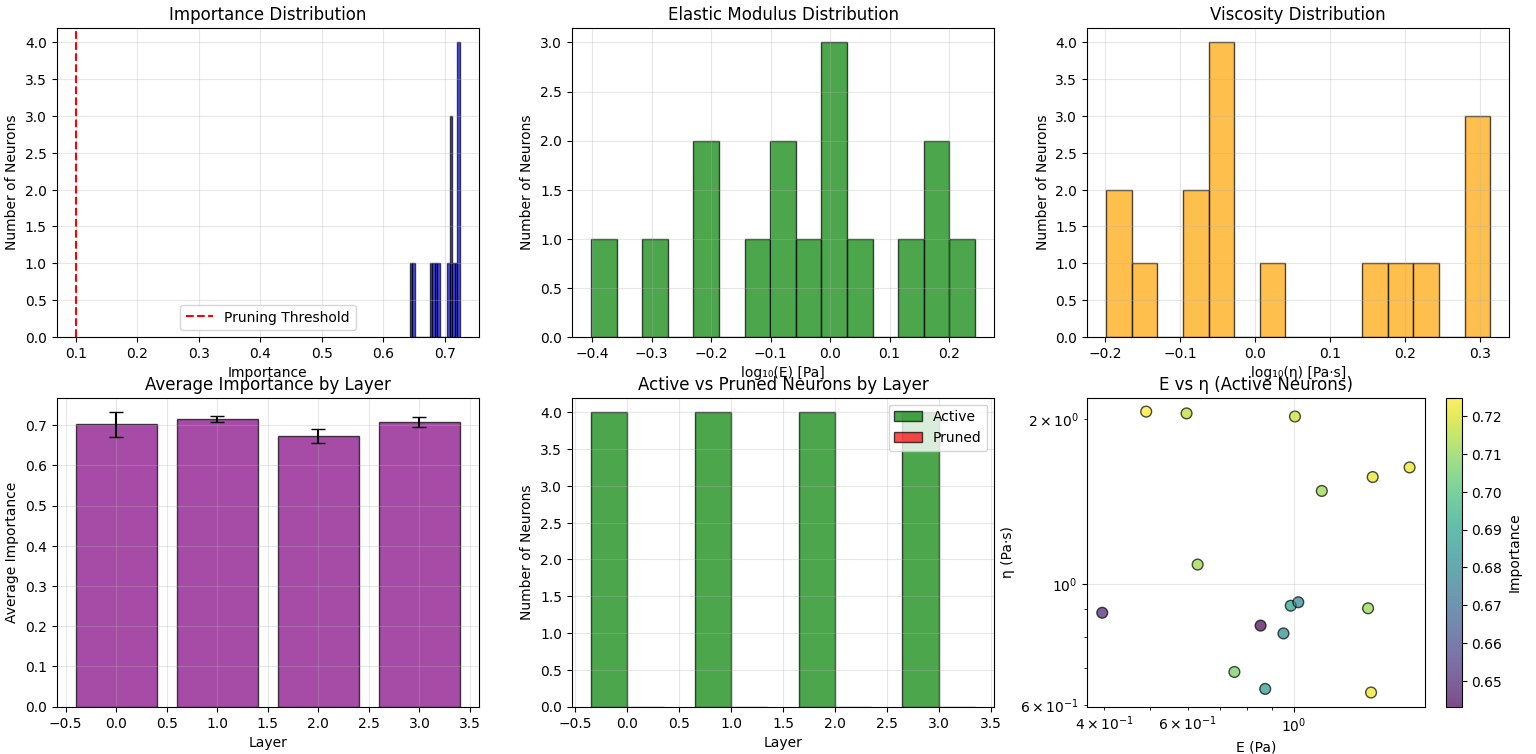
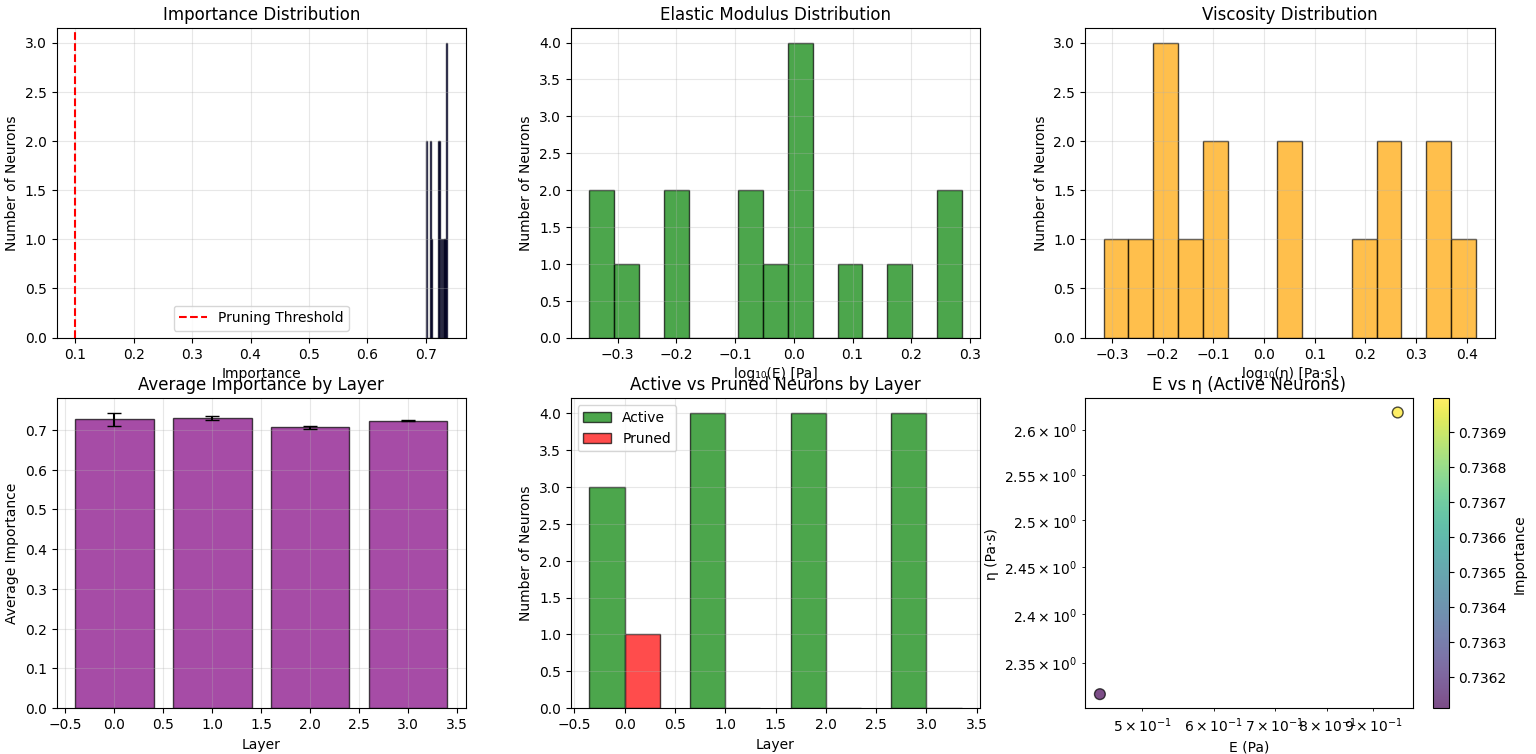
updated code

diff --git a/experiments/maxwell/main2.py b/experiments/maxwell/main2.py
@@ -243,68 +243,105 @@ class MultiPINNNetwork(nn.Module):
                 all_params.append(params)
         return all_params
     
-    def prune_neurons(self, importance_threshold=0.7):
-        """Prune neurons with low importance"""
-        pruned_count = 0
-        active_neurons = []
+    def aggressive_prune_neurons(self, target_neurons=2):
+        """Aggressively prune to keep only the most important neurons"""
+        all_params = self.get_all_neuron_parameters()
         
-        print(f"\n{'Layer':<8} {'Neuron':<8} {'ID':<5} {'Importance':<12} {'E':<12} {'η':<12} {'τ':<12} {'Status':<10}")
-        print("-" * 85)
+        # Sort by importance
+        sorted_params = sorted(all_params, key=lambda x: x['importance'], reverse=True)
         
-        for layer_idx, layer in enumerate(self.layers):
-            for neuron_idx, neuron in enumerate(layer):
-                params = neuron.get_physics_parameters()
-                importance = params['importance']
-                
-                status = "ACTIVE" if importance > importance_threshold else "PRUNED"
-                if importance <= importance_threshold:
-                    # Set importance to zero (soft pruning)
-                    with torch.no_grad():
-                        neuron.importance.data = torch.tensor([-10.0])  # Very low importance
-                    pruned_count += 1
-                else:
-                    active_neurons.append(params)
-                
-                print(f"{layer_idx:<8} {neuron_idx:<8} {params['neuron_id']:<5} "
-                      f"{importance:<12.4f} {params['E']:<12.2e} {params['eta']:<12.2e} "
-                      f"{params['tau']:<12.4e} {status:<10}")
+        print(f"\n{'Rank':<6} {'Layer':<8} {'Neuron':<8} {'ID':<5} {'Importance':<12} {'E':<12} {'η':<12} {'τ':<12} {'Status':<10}")
+        print("-" * 95)
         
-        active_count = self.total_neurons - pruned_count
-        print(f"\nPruning Summary:")
-        print(f"Total neurons: {self.total_neurons}")
-        print(f"Active neurons: {active_count}")
+        kept_count = 0
+        for i, params in enumerate(sorted_params):
+            layer_idx = params['layer']
+            neuron_idx = params['position']
+            neuron = self.layers[layer_idx][neuron_idx]
+            
+            if kept_count < target_neurons:
+                status = "KEPT"
+                kept_count += 1
+            else:
+                status = "PRUNED"
+                # Aggressively set importance to very low value
+                with torch.no_grad():
+                    neuron.importance.data = torch.tensor([-20.0])
+            
+            print(f"{i+1:<6} {params['layer']:<8} {params['position']:<8} {params['neuron_id']:<5} "
+                  f"{params['importance']:<12.4f} {params['E']:<12.2e} {params['eta']:<12.2e} "
+                  f"{params['tau']:<12.4e} {status:<10}")
+        
+        pruned_count = len(all_params) - target_neurons
+        print(f"\nAggressive Pruning Summary:")
+        print(f"Total neurons: {len(all_params)}")
+        print(f"Kept neurons: {target_neurons}")
         print(f"Pruned neurons: {pruned_count}")
-        print(f"Pruning ratio: {pruned_count/self.total_neurons:.2%}")
+        print(f"Pruning ratio: {pruned_count/len(all_params):.2%}")
         
-        return active_neurons, pruned_count, active_count
+        # Return kept neurons
+        kept_neurons = sorted_params[:target_neurons]
+        return kept_neurons, pruned_count, target_neurons
     
-    def physics_loss(self, x, y_pred, y_true):
-        """Compute combined physics loss from active neurons"""
+    def physics_loss(self, x, y_pred, y_true, sparsity_weight=0.01):
+        """Compute combined physics loss with sparsity regularization"""
         total_mse = nn.MSELoss()(y_pred, y_true)
         total_physics = torch.tensor(0.0, device=x.device, requires_grad=True)
-        active_count = 0
         
+        # Compute physics loss from all neurons (no threshold)
         for layer in self.layers:
             for neuron in layer:
                 importance = torch.sigmoid(neuron.importance).to(x.device)
-                if importance > 0.7:  # Only consider important neurons
-                    neuron_pred = neuron(x)
-                    _, physics_loss = neuron.physics_loss(x, neuron_pred, y_true)
-                    total_physics = total_physics + importance * physics_loss
-                    active_count += 1
+                neuron_pred = neuron(x)
+                _, physics_loss = neuron.physics_loss(x, neuron_pred, y_true)
+                total_physics = total_physics + importance * physics_loss
         
-        if active_count > 0:
-            total_physics = total_physics / active_count
+        # Add sparsity regularization
+        sparsity_loss = self.compute_sparsity_loss(sparsity_weight)
         
-        return total_mse, total_physics
+        return total_mse, total_physics, sparsity_loss
+    
+    def compute_sparsity_loss(self, weight=0.01):
+        """Encourage sparsity by penalizing many active neurons"""
+        # Get device from first layer's first neuron
+        device = next(self.parameters()).device
+        
+        # L1 penalty on importance weights (encourages sparsity)
+        l1_importance = torch.tensor(0.0, device=device, requires_grad=True)
+        
+        # Group lasso penalty (encourages layer-wise sparsity)
+        group_penalty = torch.tensor(0.0, device=device, requires_grad=True)
+        
+        for layer in self.layers:
+            layer_importances = []
+            for neuron in layer:
+                importance = torch.sigmoid(neuron.importance).to(device)
+                l1_importance = l1_importance + importance
+                layer_importances.append(importance)
+            
+            # Encourage each layer to have few active neurons
+            if layer_importances:
+                layer_stack = torch.stack(layer_importances)
+                group_penalty = group_penalty + torch.sqrt(torch.sum(layer_stack**2))
+        
+        # Target penalty: encourage exactly 2 neurons total
+        total_importance = torch.sum(torch.stack([torch.sigmoid(neuron.importance).to(device) 
+                                                 for layer in self.layers 
+                                                 for neuron in layer]))
+        target_penalty = (total_importance - 2.0)**2  # Penalize deviation from 2 active neurons
+        
+        sparsity_loss = weight * (l1_importance + 0.5 * group_penalty + target_penalty)
+        
+        return sparsity_loss
 
 # ============================================
 # PART 3: TRAINING AND EVALUATION
 # ============================================
 
 def train_multi_pinn_model(model, train_loader, val_loader, epochs=40, lr=0.001, 
-                           device='cpu', model_name='MultiPINN', physics_weight=0.1):
-    """Train a Multi-PINN Network and return training history"""
+                           device='cpu', model_name='MultiPINN', physics_weight=0.1, 
+                           sparsity_weight=0.01):
+    """Train a Multi-PINN Network with sparsity regularization"""
     
     model = model.to(device)
     optimizer = optim.Adam(model.parameters(), lr=lr)
@@ -314,7 +351,9 @@ def train_multi_pinn_model(model, train_loader, val_loader, epochs=40, lr=0.001,
     val_losses = []
     physics_losses = []
     data_losses = []
+    sparsity_losses = []
     importance_history = []
+    active_neuron_history = []
     
     for epoch in range(epochs):
         # Training
@@ -322,6 +361,7 @@ def train_multi_pinn_model(model, train_loader, val_loader, epochs=40, lr=0.001,
         train_loss = 0
         physics_loss_epoch = 0
         data_loss_epoch = 0
+        sparsity_loss_epoch = 0
         
         for batch_x, batch_y in train_loader:
             batch_x, batch_y = batch_x.to(device), batch_y.to(device)
@@ -329,11 +369,13 @@ def train_multi_pinn_model(model, train_loader, val_loader, epochs=40, lr=0.001,
             optimizer.zero_grad()
             outputs = model(batch_x)
             
-            # Compute physics-informed loss
-            mse_loss, physics_residual = model.physics_loss(batch_x, outputs, batch_y)
+            # Compute all loss components
+            mse_loss, physics_residual, sparsity_loss = model.physics_loss(
+                batch_x, outputs, batch_y, sparsity_weight
+            )
             
             # Combined loss
-            total_loss = mse_loss + physics_weight * physics_residual
+            total_loss = mse_loss + physics_weight * physics_residual + sparsity_loss
             
             total_loss.backward()
             
@@ -345,6 +387,7 @@ def train_multi_pinn_model(model, train_loader, val_loader, epochs=40, lr=0.001,
             train_loss += total_loss.item()
             physics_loss_epoch += physics_residual.item() if hasattr(physics_residual, 'item') else physics_residual
             data_loss_epoch += mse_loss.item()
+            sparsity_loss_epoch += sparsity_loss.item() if hasattr(sparsity_loss, 'item') else sparsity_loss
         
         # Validation
         model.eval()
@@ -353,36 +396,47 @@ def train_multi_pinn_model(model, train_loader, val_loader, epochs=40, lr=0.001,
             for batch_x, batch_y in val_loader:
                 batch_x, batch_y = batch_x.to(device), batch_y.to(device)
                 outputs = model(batch_x)
-                mse_loss, physics_residual = model.physics_loss(batch_x, outputs, batch_y)
-                total_loss = mse_loss + physics_weight * physics_residual
+                mse_loss, physics_residual, sparsity_loss = model.physics_loss(
+                    batch_x, outputs, batch_y, sparsity_weight
+                )
+                total_loss = mse_loss + physics_weight * physics_residual + sparsity_loss
                 val_loss += total_loss.item()
         
         train_loss /= len(train_loader)
         val_loss /= len(val_loader)
         physics_loss_epoch /= len(train_loader)
         data_loss_epoch /= len(train_loader)
+        sparsity_loss_epoch /= len(train_loader)
         
         train_losses.append(train_loss)
         val_losses.append(val_loss)
         physics_losses.append(physics_loss_epoch)
         data_losses.append(data_loss_epoch)
+        sparsity_losses.append(sparsity_loss_epoch)
         
-        # Track importance evolution
-        if (epoch + 1) % 10 == 0:
+        # Track importance and active neuron evolution
+        if (epoch + 1) % 5 == 0:
             all_params = model.get_all_neuron_parameters()
             avg_importance = np.mean([p['importance'] for p in all_params])
+            active_count = sum(1 for p in all_params if p['importance'] > 0.1)
+            
             importance_history.append(avg_importance)
+            active_neuron_history.append(active_count)
         
         scheduler.step(val_loss)
         
         if (epoch + 1) % 20 == 0:
-            active_neurons = sum(1 for p in model.get_all_neuron_parameters() if p['importance'] > 0.7)
+            active_neurons = sum(1 for p in model.get_all_neuron_parameters() if p['importance'] > 0.1)
+            total_importance = sum(p['importance'] for p in model.get_all_neuron_parameters())
+            
             print(f'{model_name} - Epoch [{epoch+1}/{epochs}], '
                   f'Train Loss: {train_loss:.6f}, Val Loss: {val_loss:.6f}, '
-                  f'Physics Loss: {physics_loss_epoch:.6f}, Data Loss: {data_loss_epoch:.6f}, '
-                  f'Active Neurons: {active_neurons}/{model.total_neurons}')
+                  f'Physics: {physics_loss_epoch:.6f}, Data: {data_loss_epoch:.6f}, '
+                  f'Sparsity: {sparsity_loss_epoch:.6f}, '
+                  f'Active: {active_neurons}/{model.total_neurons}, '
+                  f'Total Importance: {total_importance:.2f}')
     
-    return model, train_losses, val_losses, physics_losses, data_losses, importance_history
+    return model, train_losses, val_losses, physics_losses, data_losses, sparsity_losses, importance_history, active_neuron_history
 
 # ============================================
 # PART 4: EXPERIMENT 2 RUNNER
@@ -441,11 +495,12 @@ class Experiment2Runner:
         print(f"\nTraining Multi-PINN Network...")
         print(f"Physics Weight: {physics_weight}")
         
-        # Train the model
-        trained_model, train_losses, val_losses, physics_losses, data_losses, importance_history = train_multi_pinn_model(
+        # Train the model with sparsity regularization
+        trained_model, train_losses, val_losses, physics_losses, data_losses, sparsity_losses, importance_history, active_neuron_history = train_multi_pinn_model(
             model, self.train_loader, self.val_loader,
-            epochs=40, lr=0.001, device=self.device,
-            model_name='MultiPINN', physics_weight=physics_weight
+            epochs=60, lr=0.001, device=self.device,
+            model_name='MultiPINN', physics_weight=physics_weight,
+            sparsity_weight=0.1  # Strong sparsity pressure
         )
         
         # Analyze all neurons before pruning
@@ -473,19 +528,19 @@ class Experiment2Runner:
             for batch_x, batch_y in self.test_loader:
                 batch_x, batch_y = batch_x.to(self.device), batch_y.to(self.device)
                 outputs = trained_model(batch_x)
-                mse_loss, physics_residual = trained_model.physics_loss(batch_x, outputs, batch_y)
-                total_loss = mse_loss + physics_weight * physics_residual
+                mse_loss, physics_residual, sparsity_loss = trained_model.physics_loss(batch_x, outputs, batch_y, 0.1)
+                total_loss = mse_loss + physics_weight * physics_residual + sparsity_loss
                 test_loss_before += total_loss.item()
         test_loss_before /= len(self.test_loader)
         
         print(f"\nTest Loss Before Pruning: {test_loss_before:.6f}")
         
-        # Prune the network
+        # Aggressive pruning to target Jeffrey model structure
         print("\n" + "="*60)
-        print("PRUNING ANALYSIS")
+        print("AGGRESSIVE PRUNING TO JEFFREY MODEL (target=2 neurons)")
         print("="*60)
         
-        active_neurons, pruned_count, active_count = trained_model.prune_neurons(importance_threshold=0.7)
+        kept_neurons, aggressive_pruned_count, kept_count = trained_model.aggressive_prune_neurons(target_neurons=2)
         
         # Evaluate after pruning
         trained_model.eval()
@@ -494,8 +549,8 @@ class Experiment2Runner:
             for batch_x, batch_y in self.test_loader:
                 batch_x, batch_y = batch_x.to(self.device), batch_y.to(self.device)
                 outputs = trained_model(batch_x)
-                mse_loss, physics_residual = trained_model.physics_loss(batch_x, outputs, batch_y)
-                total_loss = mse_loss + physics_weight * physics_residual
+                mse_loss, physics_residual, sparsity_loss = trained_model.physics_loss(batch_x, outputs, batch_y, 0.1)
+                total_loss = mse_loss + physics_weight * physics_residual + sparsity_loss
                 test_loss_after += total_loss.item()
         test_loss_after /= len(self.test_loader)
         
@@ -507,8 +562,8 @@ class Experiment2Runner:
         print("ACTIVE NEURONS ANALYSIS")
         print("="*60)
         
-        # Get all neurons with importance > threshold (whether pruned or not)
-        all_active_neurons = [p for p in all_params if p['importance'] > 0.7]
+        # Use the kept neurons from aggressive pruning
+        all_active_neurons = kept_neurons
         
         if all_active_neurons:
             # Group by layer
@@ -543,11 +598,14 @@ class Experiment2Runner:
             'val_losses': val_losses,
             'physics_losses': physics_losses,
             'data_losses': data_losses,
+            'sparsity_losses': sparsity_losses,
             'importance_history': importance_history,
+            'active_neuron_history': active_neuron_history,
             'all_params': all_params,
-            'active_neurons': all_active_neurons,  # Use the corrected active neurons list
-            'pruned_count': pruned_count,
-            'active_count': active_count,
+            'active_neurons': all_active_neurons,
+            'kept_neurons': kept_neurons,
+            'pruned_count': aggressive_pruned_count,
+            'active_count': kept_count,
             'test_loss_before': test_loss_before,
             'test_loss_after': test_loss_after,
             'total_neurons': trained_model.total_neurons
@@ -679,16 +737,19 @@ class Experiment2Runner:
         axes[0, 0].grid(True, alpha=0.3)
         axes[0, 0].set_yscale('log')
         
-        # Plot 2: Active neuron count over time
-        if 'importance_history' in results:
-            importance_epochs = range(0, len(train_losses), 10)[:len(results['importance_history'])]
-            avg_importance = results['importance_history']
+        # Plot 2: Active neuron count evolution
+        if 'active_neuron_history' in results and results['active_neuron_history']:
+            neuron_epochs = range(0, len(train_losses), 5)[:len(results['active_neuron_history'])]
+            active_counts = results['active_neuron_history']
             
-            axes[0, 1].plot(importance_epochs, avg_importance, 'b-', linewidth=2, marker='o')
+            axes[0, 1].plot(neuron_epochs, active_counts, 'g-', linewidth=2, marker='o')
+            axes[0, 1].axhline(y=2, color='red', linestyle='--', label='Target (2 neurons)')
             axes[0, 1].set_xlabel('Epoch')
-            axes[0, 1].set_ylabel('Average Importance')
-            axes[0, 1].set_title('Average Neuron Importance Evolution')
+            axes[0, 1].set_ylabel('Active Neuron Count')
+            axes[0, 1].set_title('Natural Sparsity Evolution')
+            axes[0, 1].legend()
             axes[0, 1].grid(True, alpha=0.3)
+            axes[0, 1].set_ylim(0, results['total_neurons'] + 1)
         
         # Plot 3: Performance comparison
         test_before = results['test_loss_before']
